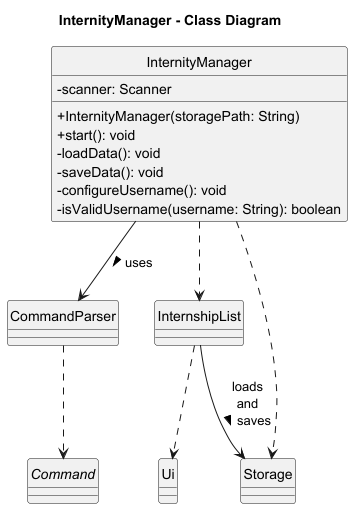
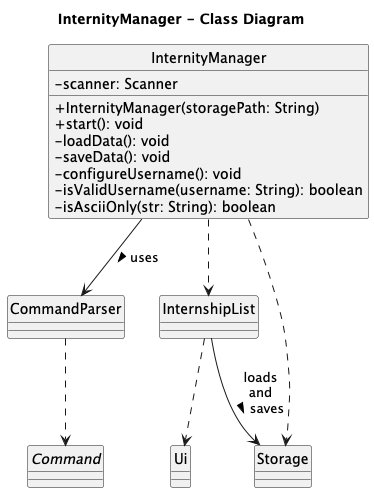
Edit username validation

diff --git a/src/main/java/internity/core/InternityManager.java b/src/main/java/internity/core/InternityManager.java
@@ -130,13 +130,37 @@ public class InternityManager {
     }
 
     /**
-     * Validates a username string to ensure it is not {@code null} or blank.
+     * Validates a username string to ensure it is not {@code null} or blank,
+     * and contains only printable ASCII characters.
      *
      * @param username the username string to validate
-     * @return {@code true} if the username is non-null and not blank;<p>
-     *         {@code false} otherwise
+     * @return {@code true} if the username is valid; {@code false} otherwise
      */
     private boolean isValidUsername(String username) {
-        return username != null && !username.isBlank();
+        if (username == null || username.isBlank()) {
+            return false;
+        }
+        String trimmed = username.trim();
+        return isAsciiOnly(trimmed);
+    }
+
+    /**
+     * Checks if a string contains only printable ASCII characters (32-126).
+     * This prevents malicious non-ASCII and control characters from being stored.
+     *
+     * @param str The string to check.
+     * @return true if the string contains only printable ASCII characters, false otherwise.
+     */
+    private boolean isAsciiOnly(String str) {
+        if (str == null) {
+            return false;
+        }
+        for (int i = 0; i < str.length(); i++) {
+            char c = str.charAt(i);
+            if (c < 32 || c > 126) {
+                return false;
+            }
+        }
+        return true;
     }
 }

diff --git a/src/main/java/internity/storage/Storage.java b/src/main/java/internity/storage/Storage.java
@@ -88,8 +88,14 @@ public class Storage {
             // Read second line (actual username)
             String username = br.readLine();
             if (username != null && !username.trim().isEmpty()) {
-                InternshipList.setUsername(username.trim());
-                logger.info("Loaded username: " + username.trim());
+                String trimmedUsername = username.trim();
+                if (!isAsciiOnly(trimmedUsername)) {
+                    logger.warning("Username contains non-ASCII characters: " + trimmedUsername);
+                    // Skip setting invalid username
+                } else {
+                    InternshipList.setUsername(trimmedUsername);
+                    logger.info("Loaded username: " + trimmedUsername);
+                }
             }
 
             // Read remaining lines as internship data
